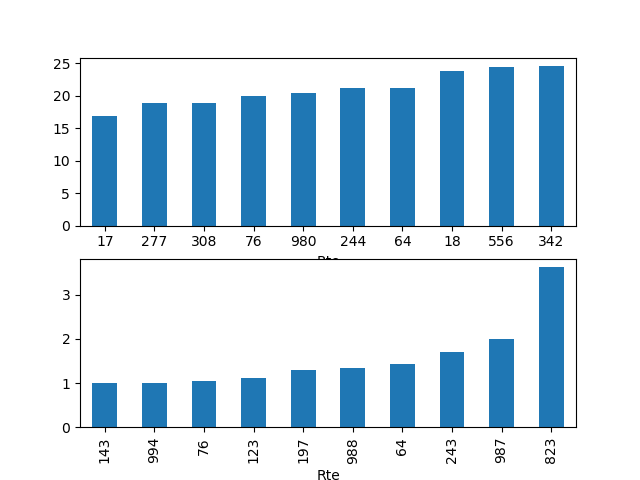
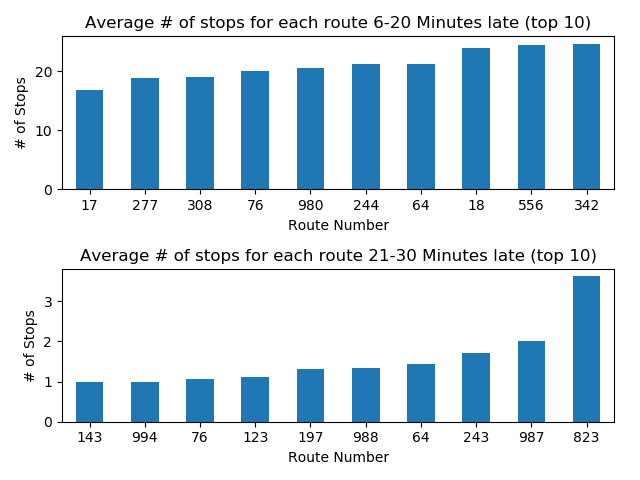
added outbound vs inbound graph

diff --git a/main.py b/main.py
@@ -1,7 +1,7 @@
 import pandas as pd
 import geopandas as gpd
 import matplotlib.pyplot as plt
-import seaborn as sns
+import numpy as np
 
 
 def load_data(csv):
@@ -21,12 +21,34 @@ def late_routes(df):
     grouped_6_20.plot.bar(ax=ax1)
     grouped_21_30.plot.bar(ax=ax2)
     ax1.tick_params('x', labelrotation=0)
+    ax2.tick_params('x', labelrotation=0)
+    ax1.set_title('Average # of stops for each route 6-20 Minutes late (top 10)')
+    ax1.set_xlabel('Route Number')
+    ax1.set_ylabel('# of Stops')
+    ax2.set_title('Average # of stops for each route 21-30 Minutes late (top 10)')
+    ax2.set_xlabel('Route Number')
+    ax2.set_ylabel('# of Stops')
+    plt.tight_layout()
     plt.savefig('number_late.png')
+
+
+def inbound_outbound(df):
+    df['% 6-20 Min Late'] = df['% 6-20 Min Late'].str.strip('%').astype(float)
+    df['% 21-30 Min Late'] = df['% 21-30 Min Late'].str.strip('%').astype(float)
+    df_g = df.groupby('InOut')['% 6-20 Min Late', '% 21-30 Min Late'].mean()
+
+    df_g.plot.bar()
+    plt.xlabel('Type of trip')
+    plt.xticks(np.arange(2), ('Inbound', 'Outbound'))
+    plt.tick_params('x', labelrotation=0)
+    plt.ylabel('% (Out of 100)')
+    plt.savefig('outbound_inbound.png')
 
 
 def main():
     df = load_data("data/AllRoutes-OTP-Details-2019-04.csv")
     late_routes(df)
+    inbound_outbound(df)
 
 
 if __name__ == "__main__":
